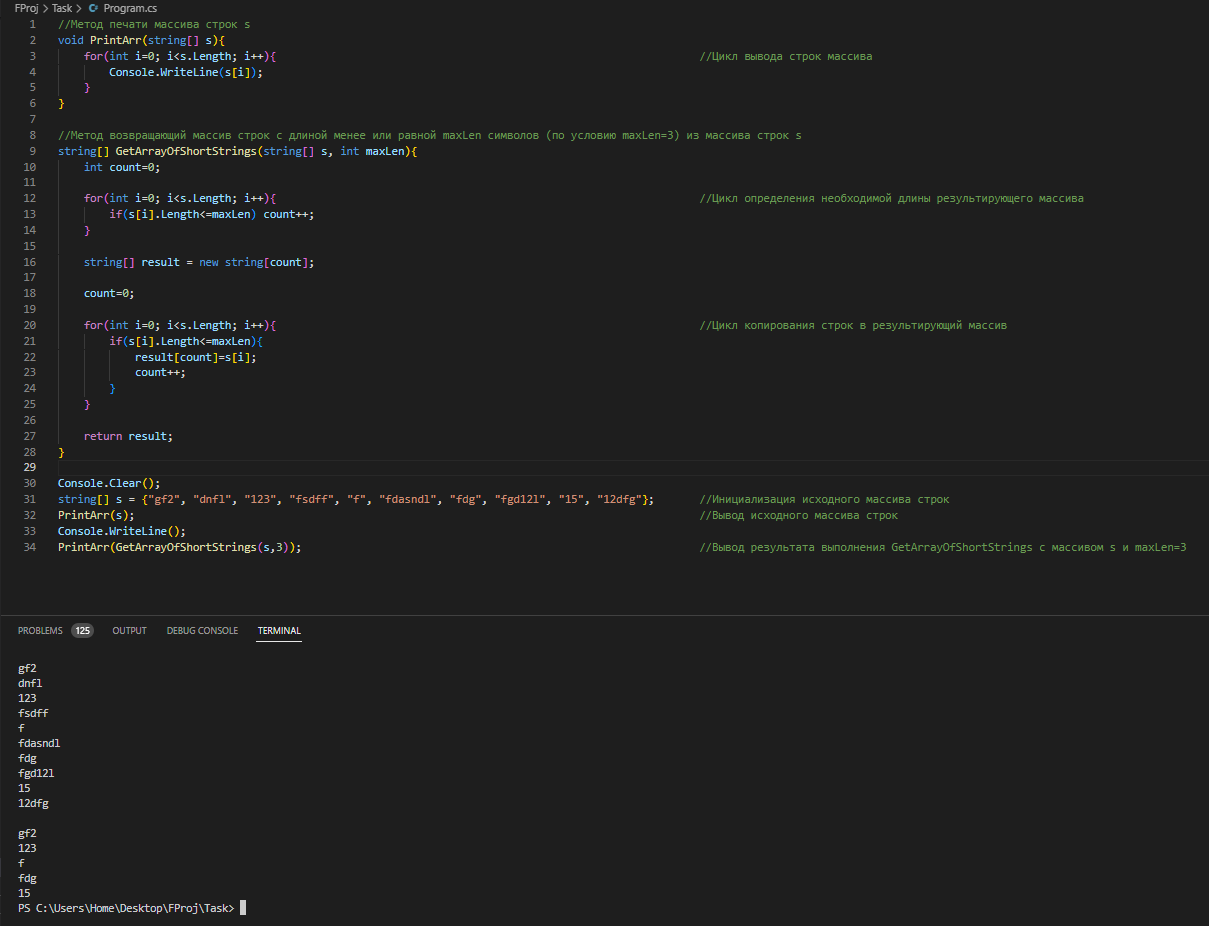
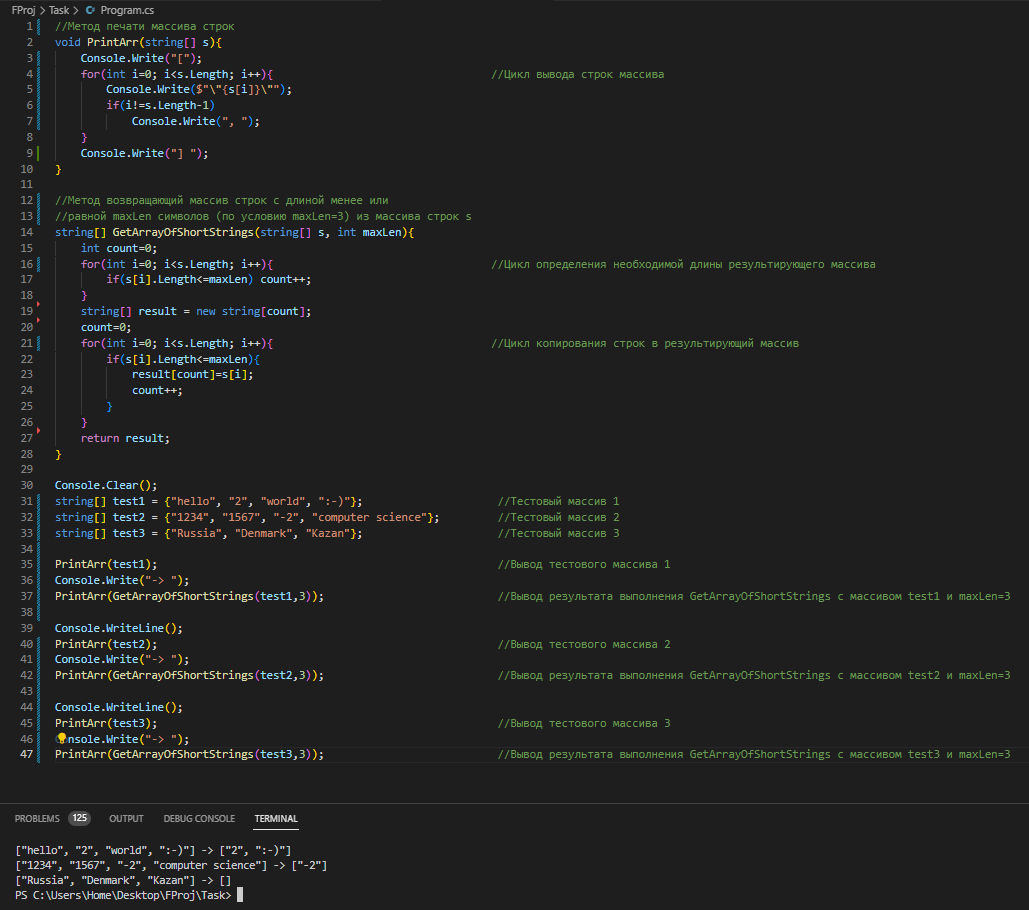
модифицирован метод PrintArray для соответствия заданию, модифицировано описание README.md, заменён скриншот работы программы

diff --git a/Task/Program.cs b/Task/Program.cs
@@ -1,34 +1,47 @@
-//Метод печати массива строк s
+//Метод печати массива строк
 void PrintArr(string[] s){
-    for(int i=0; i<s.Length; i++){                                                                  //Цикл вывода строк массива
-        Console.WriteLine(s[i]);
+    Console.Write("[");
+    for(int i=0; i<s.Length; i++){                                  //Цикл вывода строк массива
+        Console.Write($"\"{s[i]}\"");
+        if(i!=s.Length-1)
+            Console.Write(", ");
     }
+    Console.Write("] ");
 }
 
-//Метод возвращающий массив строк с длиной менее или равной maxLen символов (по условию maxLen=3) из массива строк s
+//Метод возвращающий массив строк с длиной менее или 
+//равной maxLen символов (по условию maxLen=3) из массива строк s
 string[] GetArrayOfShortStrings(string[] s, int maxLen){
     int count=0;
-
-    for(int i=0; i<s.Length; i++){                                                                  //Цикл определения необходимой длины результирующего массива
+    for(int i=0; i<s.Length; i++){                                  //Цикл определения необходимой длины результирующего массива
         if(s[i].Length<=maxLen) count++;    
     }
-
     string[] result = new string[count];
-
     count=0;
-
-    for(int i=0; i<s.Length; i++){                                                                  //Цикл копирования строк в результирующий массив
+    for(int i=0; i<s.Length; i++){                                  //Цикл копирования строк в результирующий массив
         if(s[i].Length<=maxLen){
             result[count]=s[i];
             count++;
         }
     }
-
     return result;
 }
 
 Console.Clear();
-string[] s = {"gf2", "dnfl", "123", "fsdff", "f", "fdasndl", "fdg", "fgd12l", "15", "12dfg"};       //Инициализация исходного массива строк
-PrintArr(s);                                                                                        //Вывод исходного массива строк
+string[] test1 = {"hello", "2", "world", ":-)"};                     //Тестовый массив 1
+string[] test2 = {"1234", "1567", "-2", "computer science"};         //Тестовый массив 2
+string[] test3 = {"Russia", "Denmark", "Kazan"};                     //Тестовый массив 3
+
+PrintArr(test1);                                                     //Вывод тестового массива 1
+Console.Write("-> ");
+PrintArr(GetArrayOfShortStrings(test1,3));                           //Вывод результата выполнения GetArrayOfShortStrings с массивом test1 и maxLen=3
+
 Console.WriteLine();
-PrintArr(GetArrayOfShortStrings(s,3));                                                              //Вывод результата выполнения GetArrayOfShortStrings с массивом s и maxLen=3
+PrintArr(test2);                                                     //Вывод тестового массива 2
+Console.Write("-> ");
+PrintArr(GetArrayOfShortStrings(test2,3));                           //Вывод результата выполнения GetArrayOfShortStrings с массивом test2 и maxLen=3
+
+Console.WriteLine();
+PrintArr(test3);                                                     //Вывод тестового массива 3
+Console.Write("-> ");
+PrintArr(GetArrayOfShortStrings(test3,3));                           //Вывод результата выполнения GetArrayOfShortStrings с массивом test3 и maxLen=3

diff --git a/README.md b/README.md
@@ -24,8 +24,8 @@
 ## *Алгоритм работы программы*
 ---
 В программе реализованы методы:
-* __PrintArray__ - построчный вывод массива строк на экран, принимающий в качестве входного аргумента массив строк. Алгоритм работы метода:
-    * С помощью цикла и метода Console.WriteLine в консоль последовательно выводятся все строки массива-аргумента.
+* __PrintArray__ - вывод массива строк на экран, принимающий в качестве входного аргумента массив строк. Алгоритм работы метода:
+    * С помощью цикла и метода Console.Write в консоль последовательно выводятся все строки массива-аргумента. Также выводятся дополнительные символы для корректного форматирования вывода результата в соответствии с заданием.
 * __GetArrayOfShortLines__ - метод, принимающий в качестве входных аргументов массив строк и минимальную длину строк (по заданию 3 символа) и возвращающий новый массив строк, сформированный из строк первоначального массива с длиной менее или равной минимальной длине (по заданию 3 символа). Алгоритм работы метода:
     * С помощью цикла и счётчика определяется количество строк в исходном массиве с длиной менее или равной минимальной длине (по заданию 3 символа).
     * Инициализируется новый массив строк с длиной, определённой на предыдущем этапе.
@@ -33,9 +33,10 @@
     * В результате выполнения метод возвращает новый массив строк.
 
 Порядок выполнения программы:
-1. Инициализируется тестовый массив s, состоящий из строк различной длины. 
-2. Для отображения исходного массива вызывается метод PrintArray с тестовым массивом в качестве аргумента.
-3. Для отображения результата выполнения программы вызывается метод PrintArray в качестве аргумента которого выступает результат выполнения метода GetArrayOfShortLines с тестовым массивом в качестве аргумента.
+1. Инициализируются тестовые массивы test1, test2, test3 состоящие из строк различной длины в соответствии с примерами из задания. 
+2. Для отображения каждого исходного массива вызывается метод PrintArray с очередным тестовым массивом в качестве аргумента.
+3. Для отображения результата выполнения программы вызывается метод PrintArray в качестве аргумента которого выступает результат выполнения метода GetArrayOfShortLines с очередным тестовым массивом в качестве аргумента.
+4. Шаги 2 и 3 повторяются для всех тестовых массивов.
 
 ## *Пример выполнения программы*
 ---
